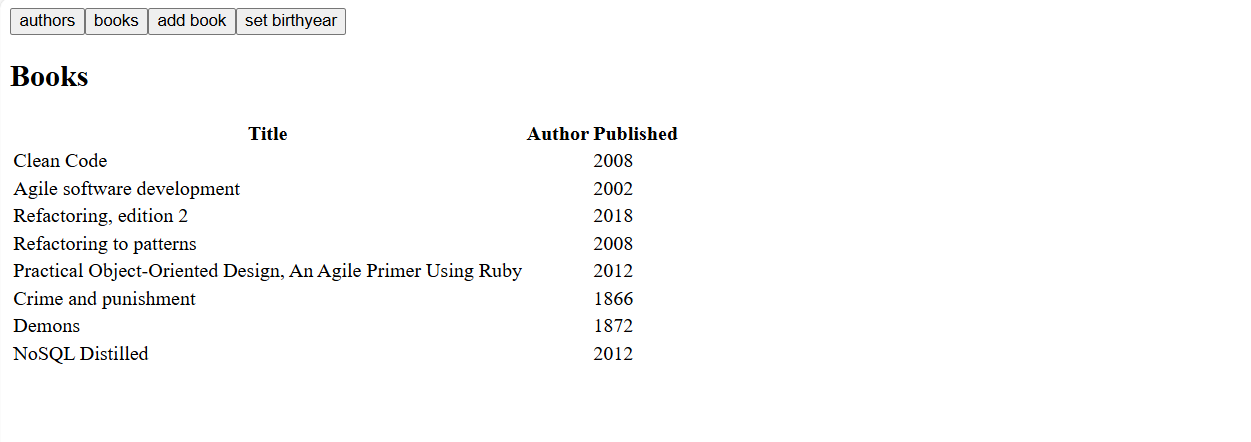
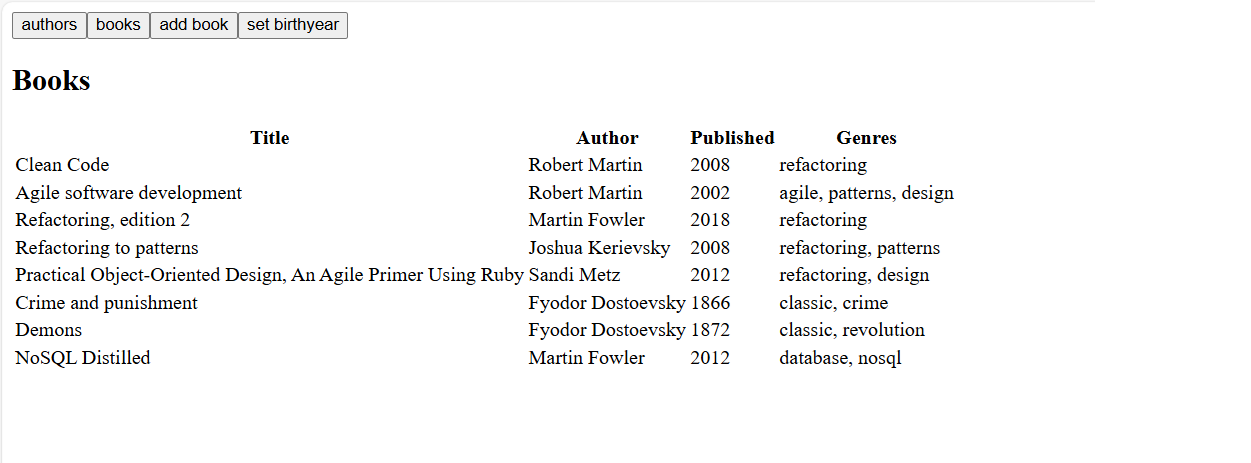
Exercise 8.12 done

diff --git a/library-frontend/src/components/NewBook.jsx b/library-frontend/src/components/NewBook.jsx
@@ -1,45 +1,88 @@
-import { useState } from 'react'
-import { useMutation } from '@apollo/client'
-import { ADD_BOOK, ALL_BOOKS, ALL_AUTHORS } from '../queries'
+import { useState } from 'react';
+import { useMutation } from '@apollo/client';
+import { ADD_BOOK, ALL_BOOKS, ALL_AUTHORS } from '../queries';
 
-export default function NewBook() {
-  const [title, setTitle] = useState('')
-  const [author, setAuthor] = useState('')
-  const [published, setPublished] = useState('')
-  const [genreInput, setGenreInput] = useState('')
-  const [genres, setGenres] = useState([])
+const NewBook = () => {
+  const [title, setTitle] = useState('');
+  const [author, setAuthor] = useState('');
+  const [published, setPublished] = useState('');
+  const [genreInput, setGenreInput] = useState('');
+  const [genres, setGenres] = useState([]);
 
   const [addBook] = useMutation(ADD_BOOK, {
     refetchQueries: [{ query: ALL_BOOKS }, { query: ALL_AUTHORS }],
-  })
+    onError: (error) => {
+      console.error(error.graphQLErrors[0]?.message);
+    },
+  });
 
-  const submit = async (e) => {
-    e.preventDefault()
-    addBook({
+  const submit = async (event) => {
+    event.preventDefault();
+
+    await addBook({
       variables: {
-        title, author,
+        title,
+        author,
         published: Number(published),
         genres,
       },
-    })
-    setTitle(''); setAuthor(''); setPublished('')
-    setGenres([]); setGenreInput('')
-  }
+    });
+
+    setTitle('');
+    setAuthor('');
+    setPublished('');
+    setGenres([]);
+    setGenreInput('');
+  };
+
+  const addGenre = () => {
+    if (genreInput.trim() !== '') {
+      setGenres(genres.concat(genreInput.trim()));
+      setGenreInput('');
+    }
+  };
 
   return (
     <div>
-      <h2>Add New Book</h2>
+      <h2>Add new book</h2>
       <form onSubmit={submit}>
-        <div>Title: <input value={title} onChange={e => setTitle(e.target.value)} /></div>
-        <div>Author: <input value={author} onChange={e => setAuthor(e.target.value)} /></div>
-        <div>Published: <input type="number" value={published} onChange={e => setPublished(e.target.value)} /></div>
         <div>
-          Genre: <input value={genreInput} onChange={e => setGenreInput(e.target.value)} />
-          <button type="button" onClick={() => { setGenres(genres.concat(genreInput)); setGenreInput('') }}>Add Genre</button>
+          Title
+          <input
+            value={title}
+            onChange={({ target }) => setTitle(target.value)}
+            required
+          />
+        </div>
+        <div>
+          Author
+          <input
+            value={author}
+            onChange={({ target }) => setAuthor(target.value)}
+            required
+          />
+        </div>
+        <div>
+          Published
+          <input
+            type="number"
+            value={published}
+            onChange={({ target }) => setPublished(target.value)}
+            required
+          />
+        </div>
+        <div>
+          <input
+            value={genreInput}
+            onChange={({ target }) => setGenreInput(target.value)}
+          />
+          <button type="button" onClick={addGenre}>Add genre</button>
         </div>
         <div>Genres: {genres.join(', ')}</div>
-        <button type="submit">Create Book</button>
+        <button type="submit">Create book</button>
       </form>
     </div>
-  )
-}
+  );
+};
+
+export default NewBook;

diff --git a/library-frontend/src/components/SetBirthYear.jsx b/library-frontend/src/components/SetBirthYear.jsx
@@ -1,26 +1,38 @@
-import { useState } from "react";
+import { useState } from 'react'
+import { useMutation } from '@apollo/client'
+import { EDIT_AUTHOR, ALL_AUTHORS } from '../queries'
 
-const SetBirthYear = () => {
-  const [name, setName] = useState("");
-  const [born, setBorn] = useState("");
+export default function SetBirthYear({ authors }) {
+  const [name, setName] = useState('')
+  const [born, setBorn] = useState('')
 
-  const submit = (event) => {
-    event.preventDefault();
-    console.log("Set birthyear:", { name, born });
-    setName("");
-    setBorn("");
-  };
+  const [editAuthor] = useMutation(EDIT_AUTHOR, {
+    refetchQueries: [{ query: ALL_AUTHORS }],
+  })
+
+  const submit = async (e) => {
+    e.preventDefault()
+
+    editAuthor({
+      variables: { name, setBornTo: Number(born) }
+    })
+
+    setName('')
+    setBorn('')
+  }
 
   return (
     <div>
-      <h2>Set birthyear</h2>
+      <h3>Set Birthyear</h3>
       <form onSubmit={submit}>
         <div>
-          Name
-          <input
-            value={name}
-            onChange={({ target }) => setName(target.value)}
-          />
+          Author
+          <select value={name} onChange={({ target }) => setName(target.value)}>
+            <option value="">Select an author</option>
+            {authors.map((a) => (
+              <option key={a.name} value={a.name}>{a.name}</option>
+            ))}
+          </select>
         </div>
         <div>
           Born
@@ -30,10 +42,8 @@ const SetBirthYear = () => {
             onChange={({ target }) => setBorn(target.value)}
           />
         </div>
-        <button type="submit">Update author</button>
+        <button type="submit">Update Author</button>
       </form>
     </div>
-  );
-};
-
-export default SetBirthYear;
+  )
+}

diff --git a/library-frontend/src/components/Books.jsx b/library-frontend/src/components/Books.jsx
@@ -1,11 +1,11 @@
-import { useQuery } from '@apollo/client'
-import { ALL_BOOKS } from '../queries'
+import { useQuery } from '@apollo/client';
+import { ALL_BOOKS } from '../queries';
 
 export default function Books() {
-  const { loading, data } = useQuery(ALL_BOOKS)
+  const { loading, data } = useQuery(ALL_BOOKS);
 
-  if (loading) return <div>Loading books...</div>
-  if (!data) return <div>No data available</div>
+  if (loading) return <div>Loading books...</div>;
+  if (!data) return <div>No data available</div>;
 
   return (
     <div>
@@ -13,19 +13,20 @@ export default function Books() {
       <table>
         <thead>
           <tr>
-            <th>Title</th><th>Author</th><th>Published</th>
+            <th>Title</th><th>Author</th><th>Published</th><th>Genres</th>
           </tr>
         </thead>
         <tbody>
           {data.allBooks.map(b => (
             <tr key={b.id}>
               <td>{b.title}</td>
-              <td>{b.author.name}</td>
+              <td>{b.author}</td>
               <td>{b.published}</td>
+              <td>{b.genres.join(', ')}</td>
             </tr>
           ))}
         </tbody>
       </table>
     </div>
-  )
+  );
 }

diff --git a/library-frontend/src/components/Authors.jsx b/library-frontend/src/components/Authors.jsx
@@ -1,9 +1,13 @@
 import { useQuery } from '@apollo/client'
 import { ALL_AUTHORS } from '../queries'
+import SetBirthYear from './SetBirthYear'
 
 export default function Authors() {
   const { loading, data } = useQuery(ALL_AUTHORS)
+
   if (loading) return <div>Loading authors...</div>
+
+  const authors = data.allAuthors
 
   return (
     <div>
@@ -11,8 +15,8 @@ export default function Authors() {
       <table>
         <thead><tr><th>Name</th><th>Born</th><th>Books</th></tr></thead>
         <tbody>
-          {data.allAuthors.map(a => (
-            <tr key={a.id}>
+          {authors.map(a => (
+            <tr key={a.name}>
               <td>{a.name}</td>
               <td>{a.born || '—'}</td>
               <td>{a.bookCount}</td>
@@ -20,7 +24,8 @@ export default function Authors() {
           ))}
         </tbody>
       </table>
+
+      <SetBirthYear authors={authors} />
     </div>
   )
 }
-
